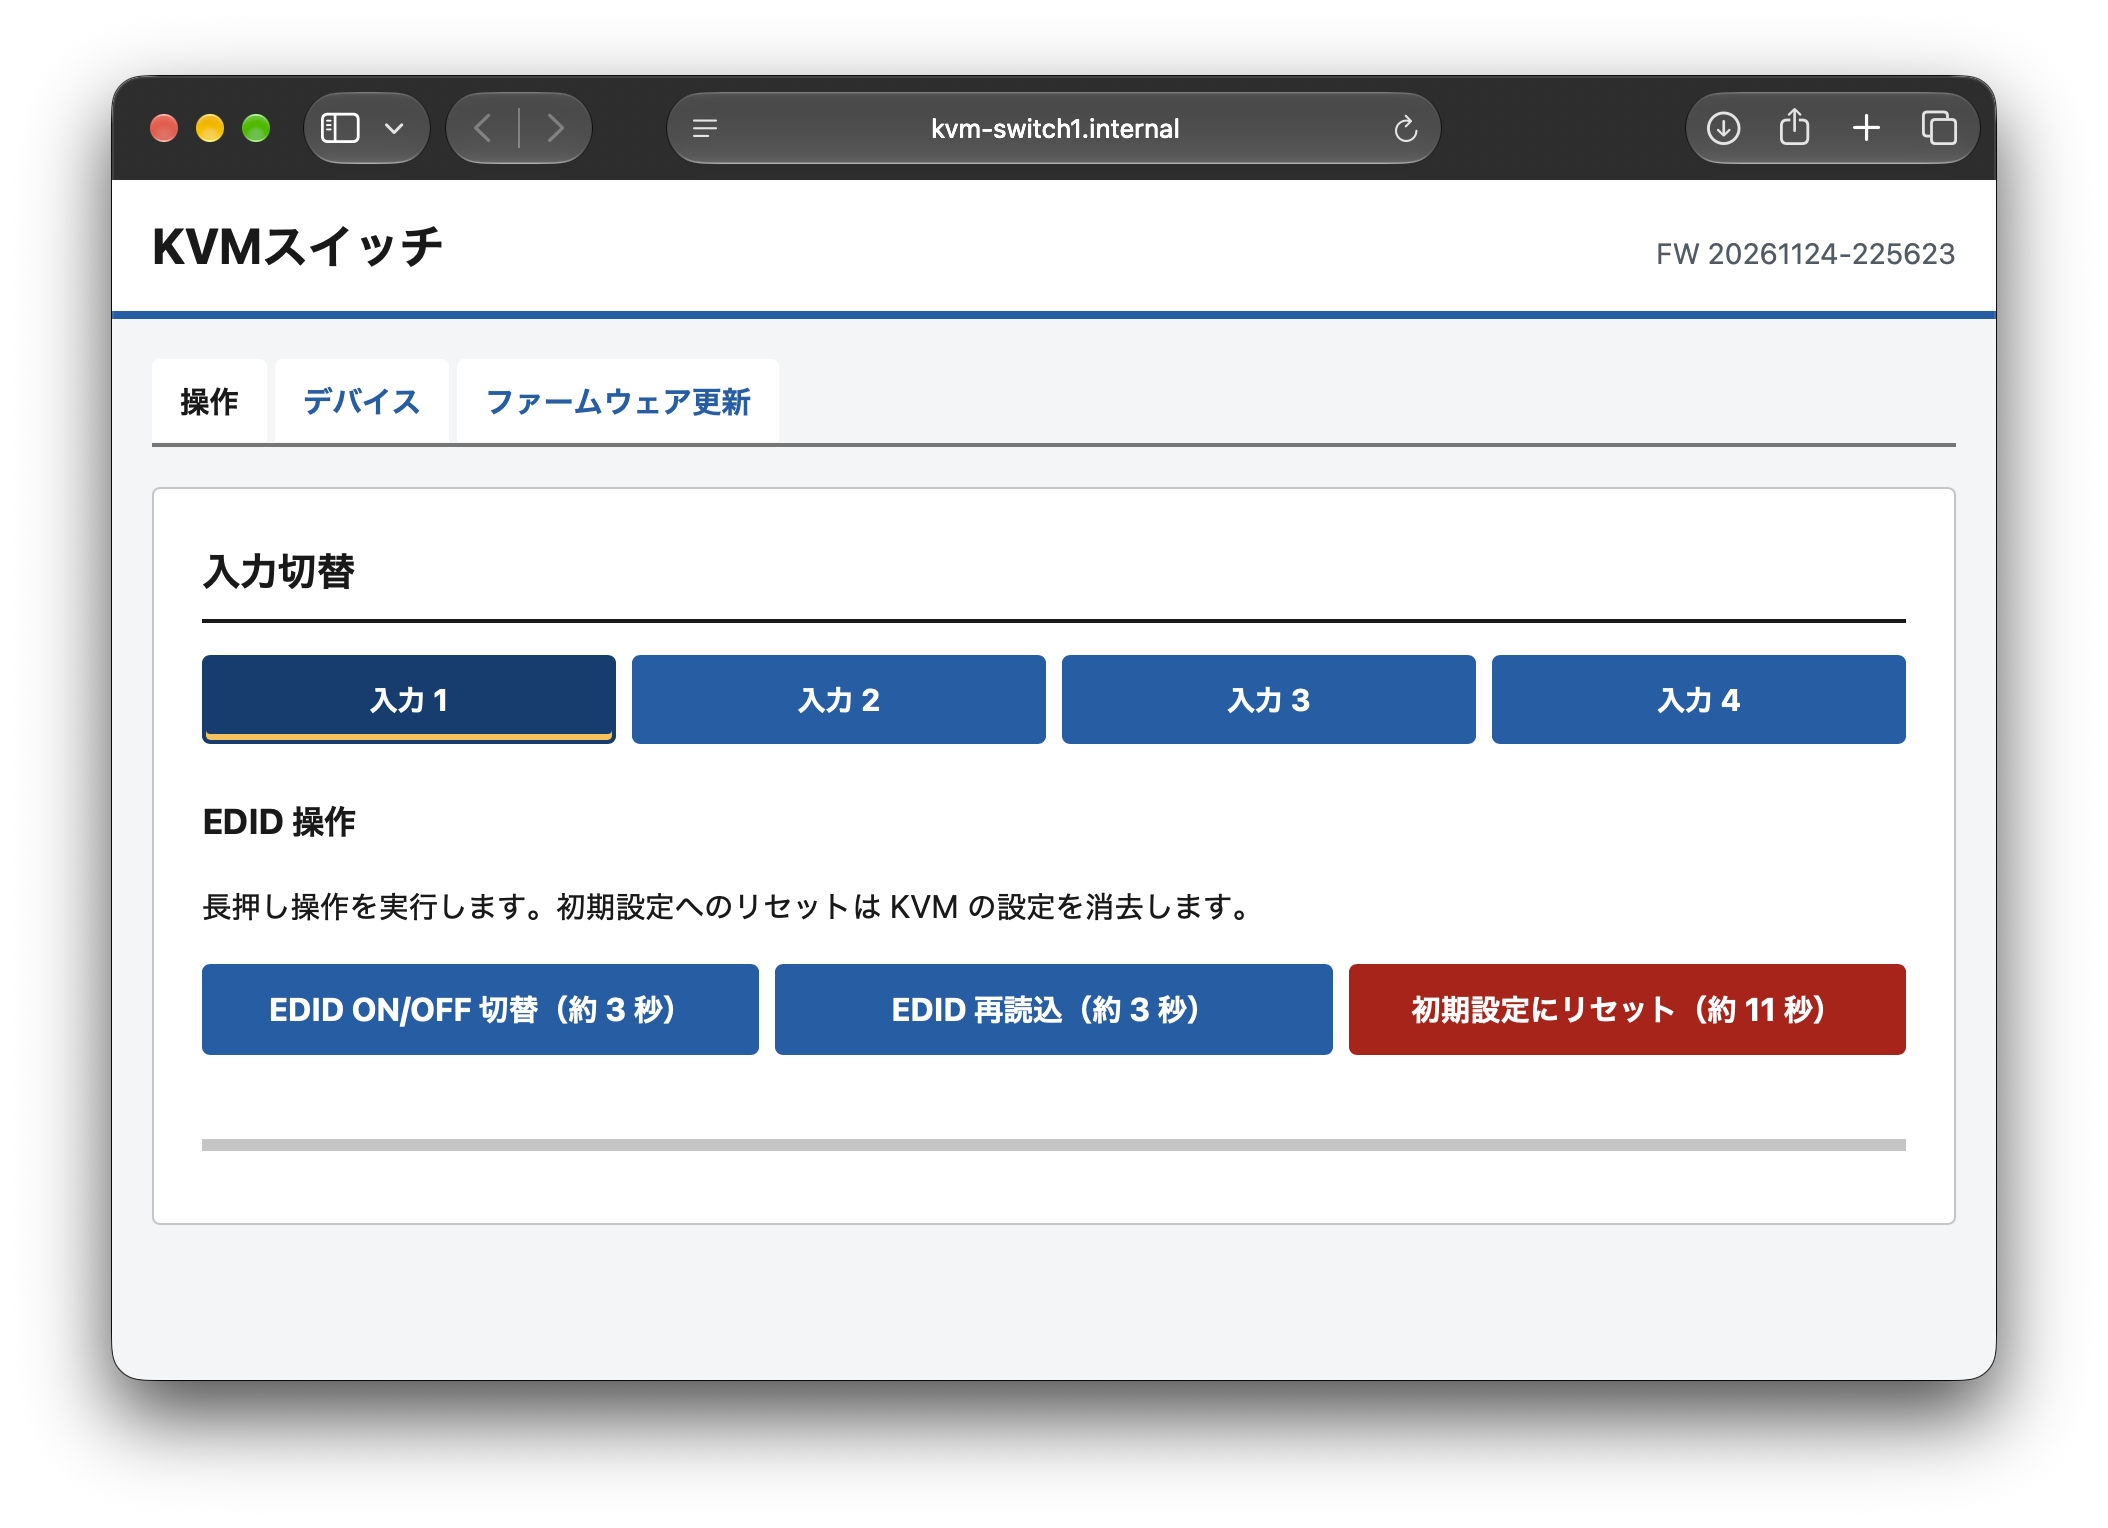
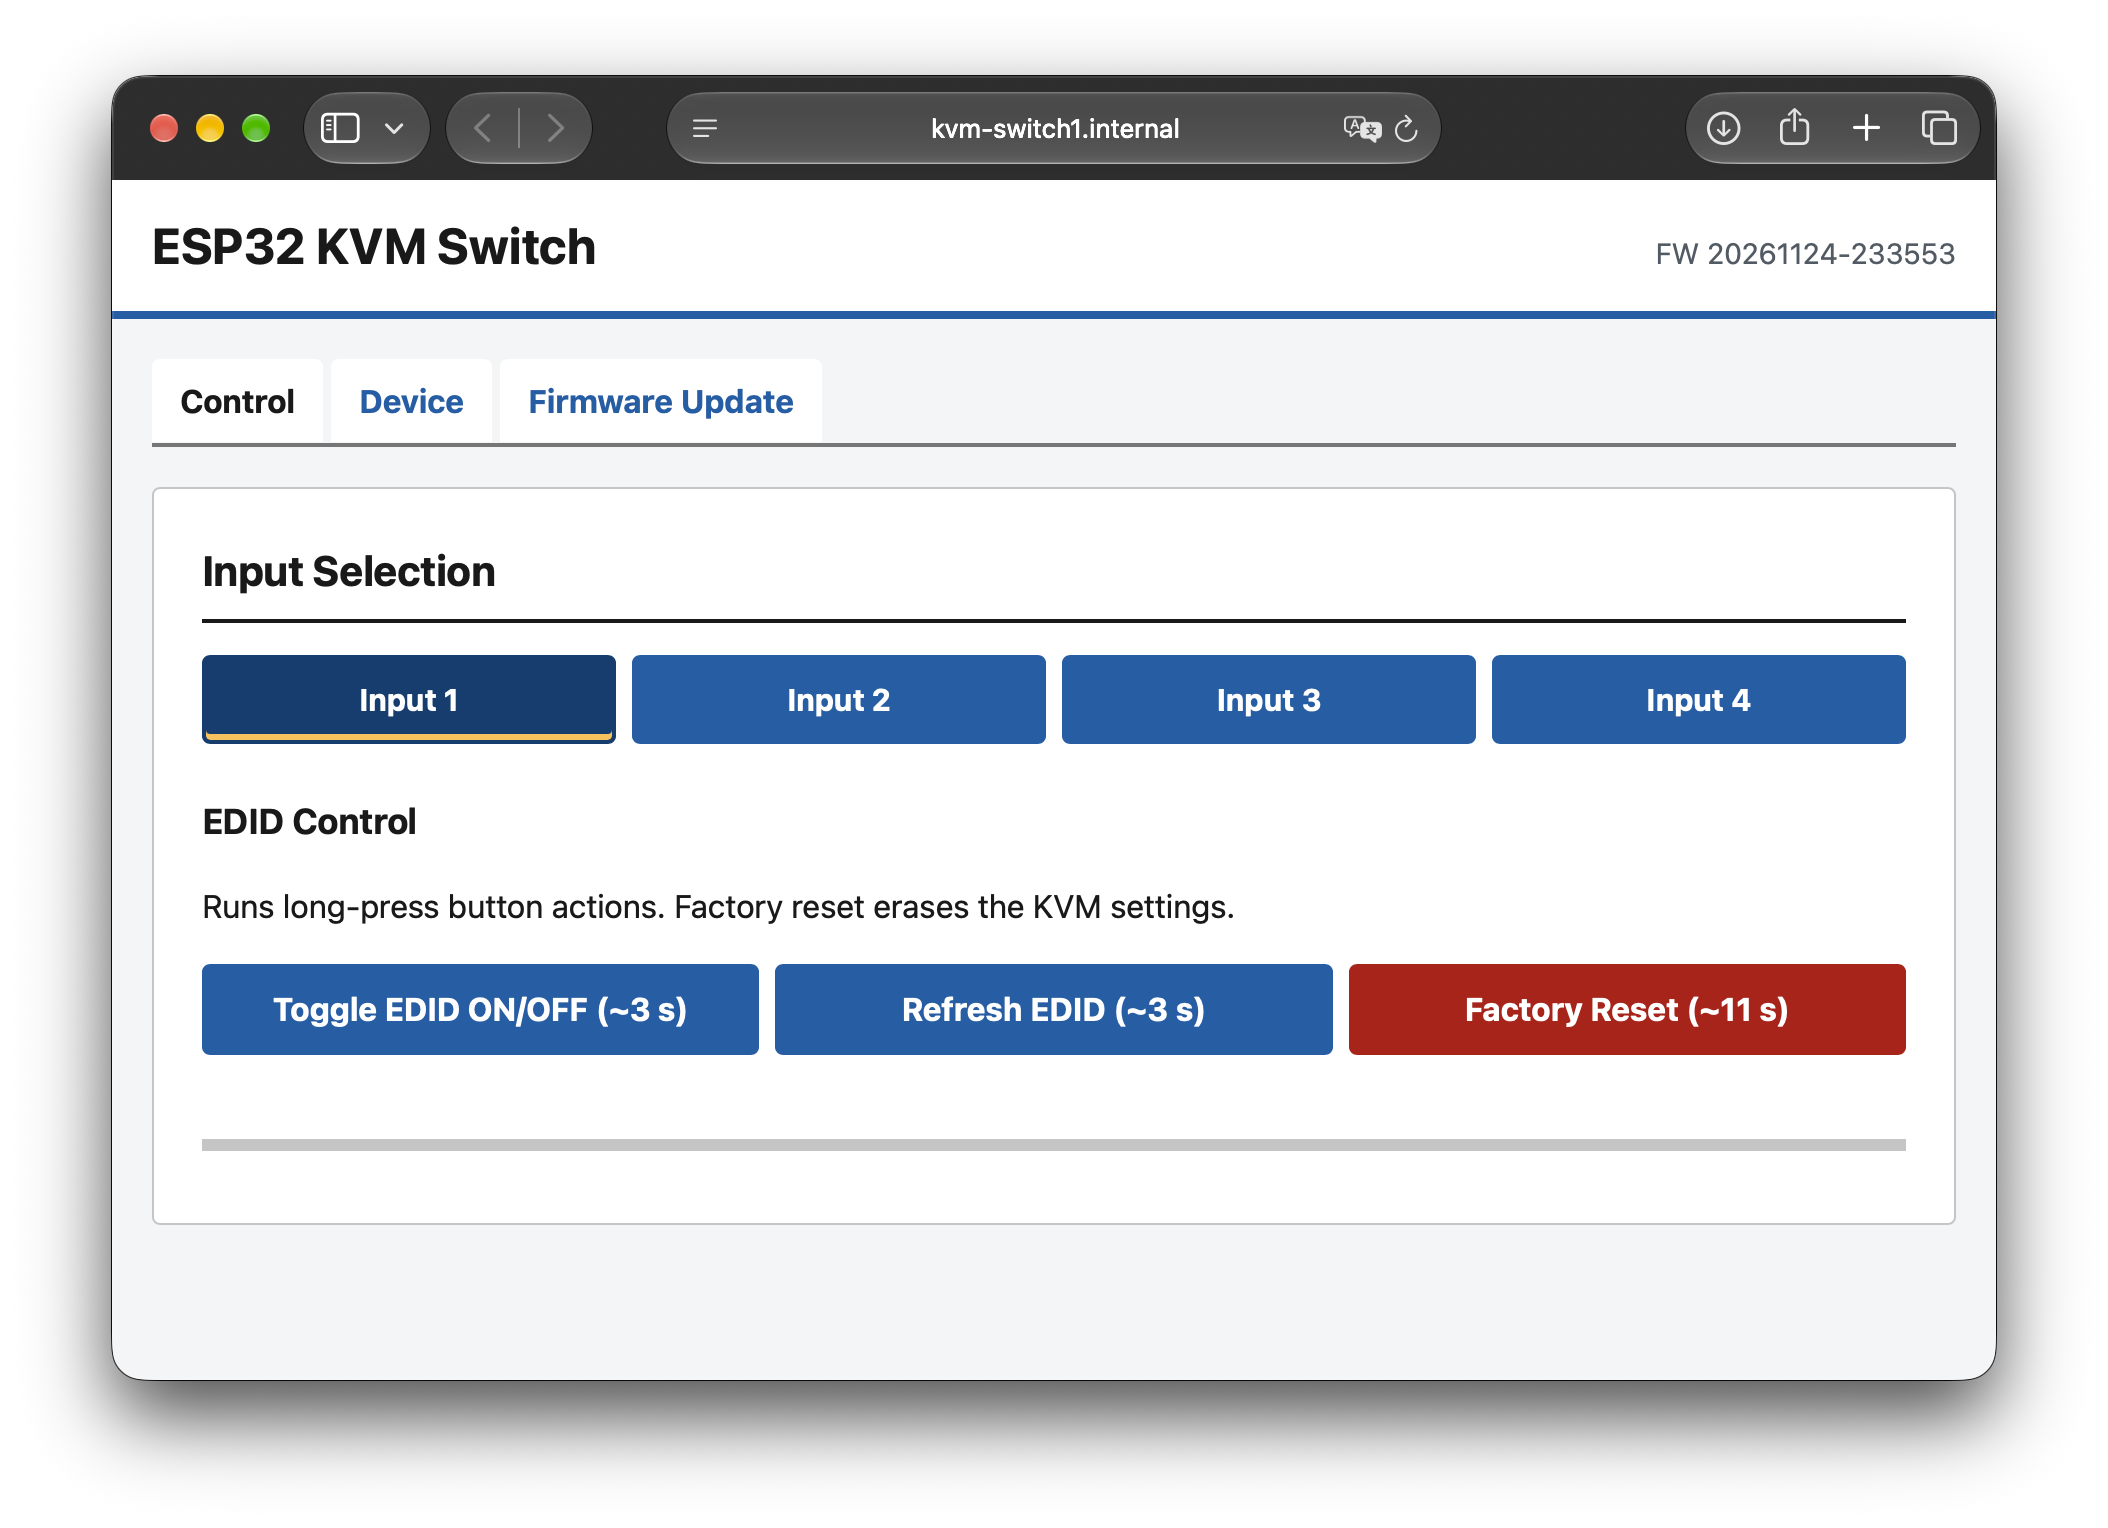
Change the language of Web UI  from Japanese to English

diff --git a/esp32-ip-kvm-switcher/esp32-ip-kvm-switcher.cpp b/esp32-ip-kvm-switcher/esp32-ip-kvm-switcher.cpp
@@ -273,7 +273,7 @@ const char HTML_PAGE[] PROGMEM = R"rawhtml(
 <head>
 <meta charset="UTF-8">
 <meta name="viewport" content="width=device-width, initial-scale=1">
-<title>KVM Switch</title>
+<title>ESP32 KVM Switch</title>
 <style>
 :root{color-scheme:light;--ink:#191919;--line:#c5c5c5;--blue:#005ea8;--focus:#2670e8;--warning:#b76900;--danger:#b50909}
 *{box-sizing:border-box}body{font-family:-apple-system,BlinkMacSystemFont,"Noto Sans JP",sans-serif;line-height:1.6;margin:0;background:#f3f5f7;color:var(--ink)}.page-header{border-bottom:4px solid var(--blue);background:#fff;padding:16px 20px}.header-inner{max-width:1100px;margin:0 auto;display:flex;align-items:baseline;justify-content:space-between;gap:12px;flex-wrap:wrap}.title{font-size:1.55rem;line-height:1.35;margin:0}.firmware-version{font-size:.9rem;color:#505a64}.container{max-width:1100px;margin:0 auto;padding:20px 20px 48px}.tabs{display:flex;gap:4px;overflow-x:auto;border-bottom:2px solid #767676;margin:0;padding:0}.tab{white-space:nowrap;min-height:44px;padding:8px 14px;margin:0 0 -2px;border:0;border-bottom:2px solid transparent;border-radius:4px 4px 0 0;background:#fff;color:var(--blue);font:inherit;font-weight:700;cursor:pointer}.tab[aria-selected=true]{color:var(--ink);border-bottom-color:var(--blue)}:focus-visible{outline:3px solid var(--focus);outline-offset:2px}[hidden]{display:none!important}h2{font-size:1.3rem;margin:0 0 16px;padding-bottom:8px;border-bottom:2px solid var(--ink)}h3{font-size:1.1rem;margin:24px 0 12px}section[role=tabpanel]{background:#fff;border:1px solid var(--line);border-radius:4px;padding:24px;margin:20px 0}.grid{display:grid;grid-template-columns:repeat(4,minmax(0,1fr));gap:8px;margin:12px 0 24px}.btn,.edid-btn,#ota-submit{font:inherit;font-weight:700;min-height:44px;padding:8px 16px;border:2px solid var(--blue);border-radius:4px;background:var(--blue);color:#fff;cursor:pointer;margin:3px}.grid .btn{width:100%;margin:0;padding:8px 4px}.btn:hover,.edid-btn:hover,#ota-submit:hover{background:#003e73;border-color:#003e73}.btn.active{background:#003e73;border-color:#003e73;box-shadow:inset 0 -3px 0 #ffbf47}.btn-indicator,.btn-num{display:none}.btn-label{display:block;font-size:.95rem}.edid-grid{display:grid;grid-template-columns:repeat(3,minmax(0,1fr));gap:8px;margin:12px 0}.edid-btn{width:100%;margin:0}.edid-btn.danger{background:var(--danger);border-color:var(--danger)}.edid-btn.danger:hover,.edid-btn.running.danger{background:#8b0000;border-color:#8b0000}.edid-btn:disabled,#ota-submit:disabled{background:#b8b8b8;border-color:#b8b8b8;cursor:not-allowed}.edid-btn.running{background:#003e73}.notice{padding:12px 16px;border-left:4px solid var(--warning);background:#fff4e5}.progress-wrap{margin:12px 0}.progress-label{min-height:24px;margin-bottom:6px}.progress-bar{height:6px;background:var(--line);overflow:hidden}.progress-fill{height:100%;width:0;background:var(--blue)}.progress-fill.danger{background:var(--danger)}.status-table{width:100%;border-collapse:collapse;margin:12px 0}th{text-align:left}td{padding:10px 12px;border-bottom:1px solid var(--line);vertical-align:top}td:first-child{font-weight:700;width:34%;background:#f5f5f5}.status-value{font-variant-numeric:tabular-nums}#toast{position:fixed;z-index:1000;bottom:12px;left:50%;transform:translate(-50%,80px);max-width:calc(100% - 24px);padding:12px 18px;background:#e8f5e9;border:2px solid #2e7d32;border-radius:4px;box-shadow:0 2px 10px #0004;transition:transform .2s;pointer-events:none}#toast.show{transform:translate(-50%,0)}
@@ -282,7 +282,7 @@ const char HTML_PAGE[] PROGMEM = R"rawhtml(
 </style>
 </head>
 <body>
-<header class="page-header"><div class="header-inner"><h1 class="title">KVM Switch</h1><div class="firmware-version">FW <span id="firmware-version">Loading</span></div></div></header>
+<header class="page-header"><div class="header-inner"><h1 class="title">ESP32 KVM Switch</h1><div class="firmware-version">FW <span id="firmware-version">Loading</span></div></div></header>
 <main class="container">
   <div class="tabs" role="tablist" aria-label="Admin panel sections">
     <button class="tab" id="tab-control" type="button" role="tab" aria-selected="true" aria-controls="panel-control" tabindex="0">Control</button>
